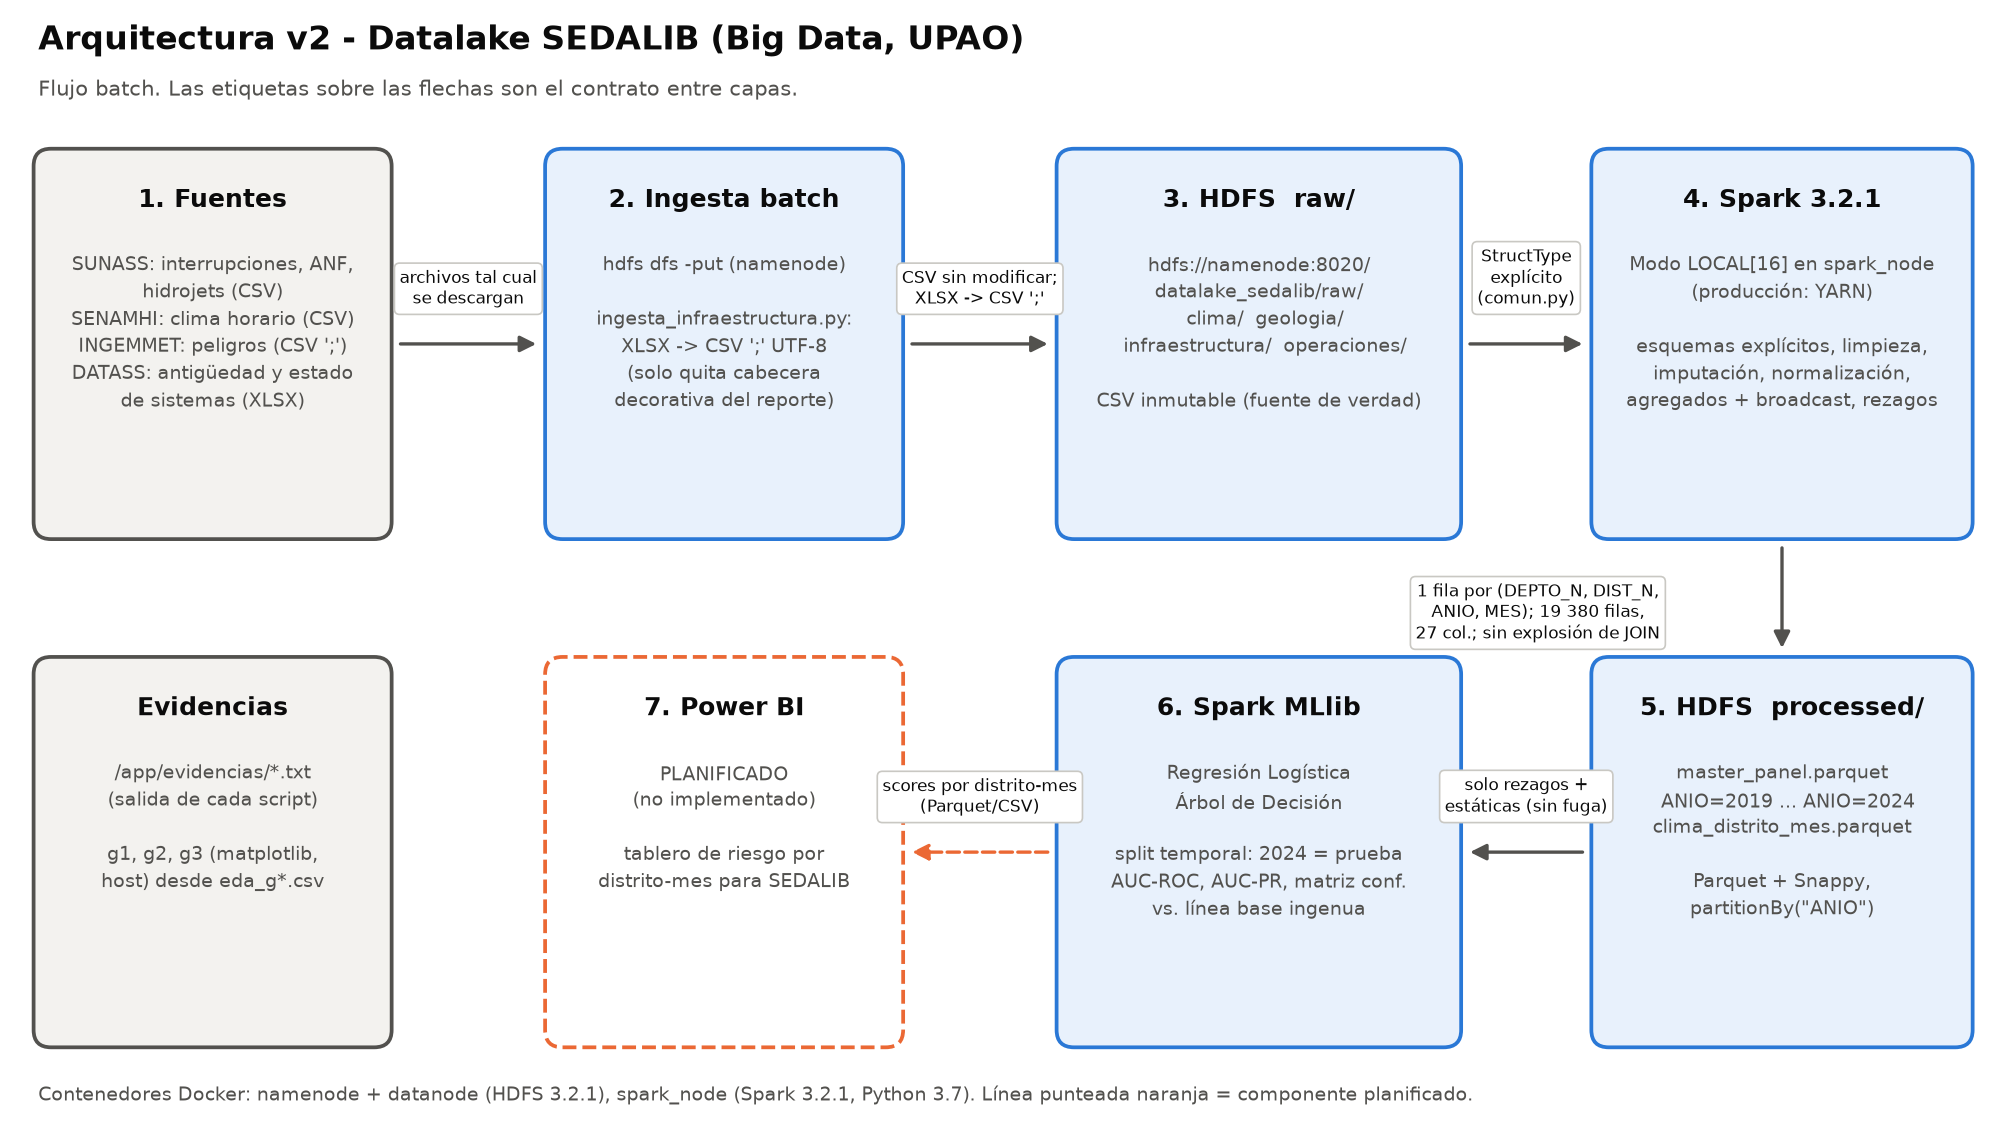
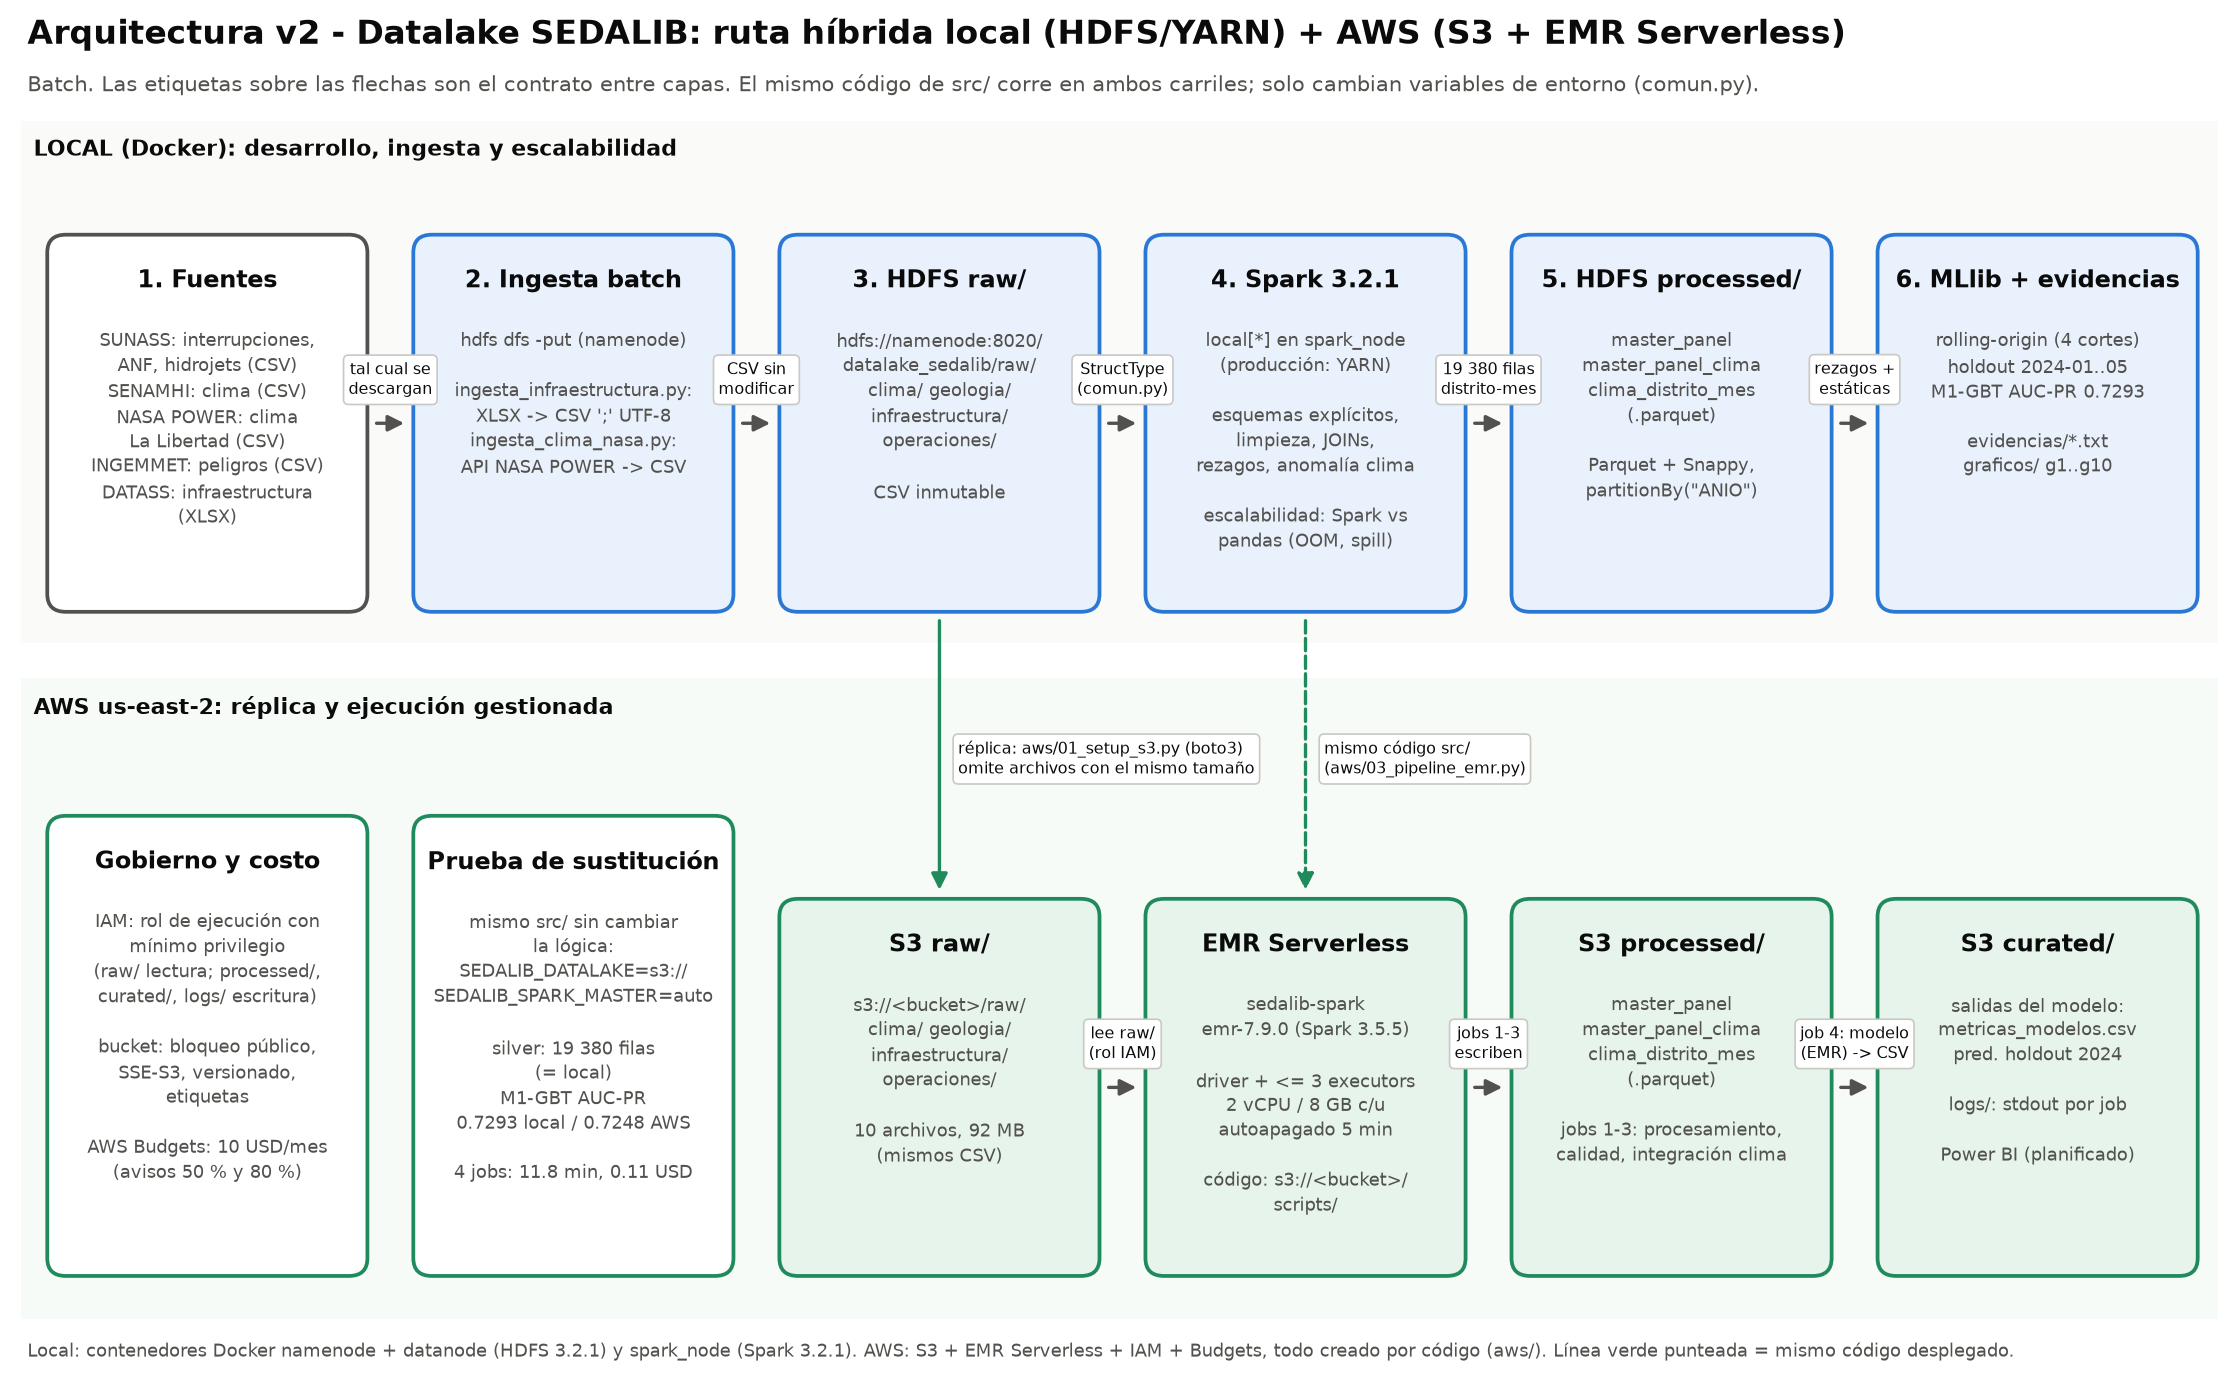
Arquitectura v2 con ruta híbrida local + AWS; detalle M1-GBT en evidencia AWS
Diagrama: carril local (ingesta, HDFS, Spark/YARN, escalabilidad) y carril AWS
(réplica S3 raw/processed/curated, EMR Serverless, salidas del modelo). Sin ID de cuenta.
aws_03_pipeline.txt: sección i con AUC-PR, precisión y recall de M1-GBT local vs AWS.

diff --git a/src/arquitectura_v2.py b/src/arquitectura_v2.py
@@ -1,68 +1,115 @@
-"""7. Diagrama de arquitectura v2 -> graficos/arquitectura_v2.png (python src/arquitectura_v2.py, en el host)."""
+"""7. Diagrama de arquitectura v2 (ruta hibrida local + AWS) -> graficos/arquitectura_v2.png.
+
+python src/arquitectura_v2.py   (en el host)
+Carril superior: desarrollo, ingesta y escalabilidad en local (Docker: HDFS + Spark; YARN en produccion).
+Carril inferior: replica en S3 (raw/processed/curated) y el MISMO codigo de src/ en EMR Serverless.
+No muestra el ID de la cuenta AWS (el bucket se escribe como s3://<bucket>/).
+"""
 import os
 
 import matplotlib
 
 matplotlib.use("Agg")
 import matplotlib.pyplot as plt  # noqa: E402
-from matplotlib.patches import FancyArrowPatch, FancyBboxPatch  # noqa: E402
+from matplotlib.patches import FancyArrowPatch, FancyBboxPatch, Rectangle  # noqa: E402
 
 TINTA, TINTA2 = "#0b0b0b", "#52514e"
 AZUL, AZUL_F = "#2a78d6", "#e8f1fc"
 GRIS_F, NARANJA = "#f3f2ef", "#eb6834"
+VERDE, VERDE_F = "#1f8a5b", "#e6f4ec"
+BASE = os.path.dirname(os.path.dirname(os.path.abspath(__file__)))
 
-fig, ax = plt.subplots(figsize=(17, 9.5))
-ax.set_xlim(0, 170)
-ax.set_ylim(0, 95)
+fig, ax = plt.subplots(figsize=(19, 11.5))
+ax.set_xlim(0, 178)
+ax.set_ylim(0, 112)
 ax.axis("off")
 
 
 def caja(x, y, w, h, titulo, cuerpo, fondo=AZUL_F, borde=AZUL, estilo="solid"):
     ax.add_patch(FancyBboxPatch((x, y), w, h, boxstyle="round,pad=0.4,rounding_size=1.5", fc=fondo, ec=borde,
                                 lw=1.8, ls=estilo))
-    ax.text(x + w / 2, y + h - 3, titulo, ha="center", va="top", fontsize=12, fontweight="bold", color=TINTA)
-    ax.text(x + w / 2, y + h - 8.5, cuerpo, ha="center", va="top", fontsize=9, color=TINTA2, linespacing=1.45)
+    ax.text(x + w / 2, y + h - 2.5, titulo, ha="center", va="top", fontsize=11.5, fontweight="bold", color=TINTA)
+    ax.text(x + w / 2, y + h - 7.5, cuerpo, ha="center", va="top", fontsize=8.6, color=TINTA2, linespacing=1.4)
 
 
-def flecha(x1, y1, x2, y2, contrato, dx=0, dy=2.2, estilo="solid", color=TINTA2):
-    ax.add_patch(FancyArrowPatch((x1, y1), (x2, y2), arrowstyle="-|>", mutation_scale=16, lw=1.6, color=color, ls=estilo))
-    ax.text((x1 + x2) / 2 + dx, (y1 + y2) / 2 + dy, contrato, ha="center", va="bottom", fontsize=8.2, color=TINTA,
-            bbox=dict(boxstyle="round,pad=0.3", fc="white", ec="#c9c8c3", lw=0.8))
+def flecha(x1, y1, x2, y2, contrato, dx=0, dy=2.0, estilo="solid", color=TINTA2, ha="center"):
+    ax.add_patch(FancyArrowPatch((x1, y1), (x2, y2), arrowstyle="-|>", mutation_scale=16, lw=1.6, color=color,
+                                 ls=estilo))
+    if contrato:
+        ax.text((x1 + x2) / 2 + dx, (y1 + y2) / 2 + dy, contrato, ha=ha, va="bottom", fontsize=7.9, color=TINTA,
+                bbox=dict(boxstyle="round,pad=0.3", fc="white", ec="#c9c8c3", lw=0.8))
 
 
-ax.text(2, 92, "Arquitectura v2 - Datalake SEDALIB (Big Data, UPAO)", fontsize=16, fontweight="bold", color=TINTA)
-ax.text(2, 88, "Flujo batch. Las etiquetas sobre las flechas son el contrato entre capas.", fontsize=10, color=TINTA2)
+def carril(y, h, etiqueta, color):
+    ax.add_patch(Rectangle((0.5, y), 177, h, fc=color, ec="none", alpha=0.35, zorder=0))
+    ax.text(1.5, y + h - 1.5, etiqueta, fontsize=10.5, fontweight="bold", color=TINTA, va="top")
 
-# Fila superior
-caja(2, 50, 30, 33, "1. Fuentes", "SUNASS: interrupciones, ANF,\nhidrojets (CSV)\nSENAMHI: clima horario (CSV)\n"
-     "INGEMMET: peligros (CSV ';')\nDATASS: antigüedad y estado\nde sistemas (XLSX)", fondo=GRIS_F, borde=TINTA2)
-caja(46, 50, 30, 33, "2. Ingesta batch", "hdfs dfs -put (namenode)\n\ningesta_infraestructura.py:\nXLSX -> CSV ';' UTF-8\n"
-     "(solo quita cabecera\ndecorativa del reporte)")
-caja(90, 50, 34, 33, "3. HDFS  raw/", "hdfs://namenode:8020/\ndatalake_sedalib/raw/\n  clima/  geologia/\n"
-     "  infraestructura/  operaciones/\n\nCSV inmutable (fuente de verdad)")
-caja(136, 50, 32, 33, "4. Spark 3.2.1", "Modo LOCAL[16] en spark_node\n(producción: YARN)\n\nesquemas explícitos, limpieza,\n"
-     "imputación, normalización,\nagregados + broadcast, rezagos")
 
-# Fila inferior
-caja(136, 6, 32, 33, "5. HDFS  processed/", "master_panel.parquet\n  ANIO=2019 ... ANIO=2024\n"
-     "clima_distrito_mes.parquet\n\nParquet + Snappy,\npartitionBy(\"ANIO\")")
-caja(90, 6, 34, 33, "6. Spark MLlib", "Regresión Logística\nÁrbol de Decisión\n\nsplit temporal: 2024 = prueba\n"
-     "AUC-ROC, AUC-PR, matriz conf.\nvs. línea base ingenua")
-caja(46, 6, 30, 33, "7. Power BI", "PLANIFICADO\n(no implementado)\n\ntablero de riesgo por\ndistrito-mes para SEDALIB",
-     fondo="white", borde=NARANJA, estilo="--")
-caja(2, 6, 30, 33, "Evidencias", "/app/evidencias/*.txt\n(salida de cada script)\n\ng1, g2, g3 (matplotlib,\n"
-     "host) desde eda_g*.csv", fondo=GRIS_F, borde=TINTA2)
+ax.text(1, 109.5, "Arquitectura v2 - Datalake SEDALIB: ruta híbrida local (HDFS/YARN) + AWS (S3 + EMR Serverless)",
+        fontsize=16, fontweight="bold", color=TINTA)
+ax.text(1, 105.5, "Batch. Las etiquetas sobre las flechas son el contrato entre capas. El mismo código de src/ corre en "
+        "ambos carriles; solo cambian variables de entorno (comun.py).", fontsize=10, color=TINTA2)
 
-flecha(32.8, 66.5, 45.2, 66.5, "archivos tal cual\nse descargan", dy=3)
-flecha(76.8, 66.5, 89.2, 66.5, "CSV sin modificar;\nXLSX -> CSV ';'", dy=3)
-flecha(124.8, 66.5, 135.2, 66.5, "StructType\nexplícito\n(comun.py)", dy=3)
-flecha(152, 49.2, 152, 39.8, "1 fila por (DEPTO_N, DIST_N,\nANIO, MES); 19 380 filas,\n27 col.; sin explosión de JOIN",
-       dx=-21, dy=-4)
-flecha(135.2, 22.5, 124.8, 22.5, "solo rezagos +\nestáticas (sin fuga)", dy=3)
-flecha(89.2, 22.5, 76.8, 22.5, "scores por distrito-mes\n(Parquet/CSV)", dy=3, estilo="--", color=NARANJA)
+W, H = 25, 31
+X = [3, 32.5, 62, 91.5, 121, 150.5]
 
-ax.text(2, 1, "Contenedores Docker: namenode + datanode (HDFS 3.2.1), spark_node (Spark 3.2.1, Python 3.7). "
-         "Línea punteada naranja = componente planificado.", fontsize=9, color=TINTA2)
-fig.savefig(os.path.join(os.path.dirname(os.path.dirname(os.path.abspath(__file__))), "graficos", "arquitectura_v2.png"),
-            dpi=150, bbox_inches="tight")
+# ------------------------------------------------------------------ carril local
+carril(59, 44, "LOCAL (Docker): desarrollo, ingesta y escalabilidad", GRIS_F)
+YL = 62
+caja(X[0], YL, W, H, "1. Fuentes", "SUNASS: interrupciones,\nANF, hidrojets (CSV)\nSENAMHI: clima (CSV)\n"
+     "NASA POWER: clima\nLa Libertad (CSV)\nINGEMMET: peligros (CSV)\nDATASS: infraestructura\n(XLSX)",
+     fondo="white", borde=TINTA2)
+caja(X[1], YL, W, H, "2. Ingesta batch", "hdfs dfs -put (namenode)\n\ningesta_infraestructura.py:\nXLSX -> CSV ';' UTF-8\n"
+     "ingesta_clima_nasa.py:\nAPI NASA POWER -> CSV")
+caja(X[2], YL, W, H, "3. HDFS raw/", "hdfs://namenode:8020/\ndatalake_sedalib/raw/\nclima/ geologia/\n"
+     "infraestructura/\noperaciones/\n\nCSV inmutable")
+caja(X[3], YL, W, H, "4. Spark 3.2.1", "local[*] en spark_node\n(producción: YARN)\n\nesquemas explícitos,\nlimpieza, JOINs,\n"
+     "rezagos, anomalía clima\n\nescalabilidad: Spark vs\npandas (OOM, spill)")
+caja(X[4], YL, W, H, "5. HDFS processed/", "master_panel\nmaster_panel_clima\nclima_distrito_mes\n(.parquet)\n\n"
+     "Parquet + Snappy,\npartitionBy(\"ANIO\")")
+caja(X[5], YL, W, H, "6. MLlib + evidencias", "rolling-origin (4 cortes)\nholdout 2024-01..05\n"
+     "M1-GBT AUC-PR 0.7293\n\nevidencias/*.txt\ngraficos/ g1..g10")
+
+yl = YL + H / 2
+flecha(X[0] + W + 0.8, yl, X[1] - 0.8, yl, "tal cual se\ndescargan")
+flecha(X[1] + W + 0.8, yl, X[2] - 0.8, yl, "CSV sin\nmodificar")
+flecha(X[2] + W + 0.8, yl, X[3] - 0.8, yl, "StructType\n(comun.py)")
+flecha(X[3] + W + 0.8, yl, X[4] - 0.8, yl, "19 380 filas\ndistrito-mes")
+flecha(X[4] + W + 0.8, yl, X[5] - 0.8, yl, "rezagos +\nestáticas")
+
+# ------------------------------------------------------------------ carril AWS
+carril(2, 54, "AWS us-east-2: réplica y ejecución gestionada", VERDE_F)
+YA = 6
+caja(X[0], YA, W, 38, "Gobierno y costo", "IAM: rol de ejecución con\nmínimo privilegio\n(raw/ lectura; processed/,\n"
+     "curated/, logs/ escritura)\n\nbucket: bloqueo público,\nSSE-S3, versionado,\netiquetas\n\nAWS Budgets: 10 USD/mes\n"
+     "(avisos 50 % y 80 %)", fondo="white", borde=VERDE)
+caja(X[1], YA, W, 38, "Prueba de sustitución", "mismo src/ sin cambiar\nla lógica:\nSEDALIB_DATALAKE=s3://\n"
+     "SEDALIB_SPARK_MASTER=auto\n\nsilver: 19 380 filas\n(= local)\nM1-GBT AUC-PR\n0.7293 local / 0.7248 AWS\n\n"
+     "4 jobs: 11.8 min, 0.11 USD", fondo="white", borde=VERDE)
+caja(X[2], YA, W, H, "S3 raw/", "s3://<bucket>/raw/\nclima/ geologia/\ninfraestructura/\noperaciones/\n\n"
+     "10 archivos, 92 MB\n(mismos CSV)", fondo=VERDE_F, borde=VERDE)
+caja(X[3], YA, W, H, "EMR Serverless", "sedalib-spark\nemr-7.9.0 (Spark 3.5.5)\n\ndriver + <= 3 executors\n"
+     "2 vCPU / 8 GB c/u\nautoapagado 5 min\n\ncódigo: s3://<bucket>/\nscripts/", fondo=VERDE_F, borde=VERDE)
+caja(X[4], YA, W, H, "S3 processed/", "master_panel\nmaster_panel_clima\nclima_distrito_mes\n(.parquet)\n\n"
+     "jobs 1-3: procesamiento,\ncalidad, integración clima", fondo=VERDE_F, borde=VERDE)
+caja(X[5], YA, W, H, "S3 curated/", "salidas del modelo:\nmetricas_modelos.csv\npred. holdout 2024\n\n"
+     "logs/: stdout por job\n\nPower BI (planificado)", fondo=VERDE_F, borde=VERDE)
+
+ya = YA + H / 2
+flecha(X[2] + W + 0.8, ya, X[3] - 0.8, ya, "lee raw/\n(rol IAM)")
+flecha(X[3] + W + 0.8, ya, X[4] - 0.8, ya, "jobs 1-3\nescriben")
+flecha(X[4] + W + 0.8, ya, X[5] - 0.8, ya, "job 4: modelo\n(EMR) -> CSV")
+
+# replica local -> S3 (de los archivos de raw/ locales)
+flecha(X[2] + W / 2, YL - 0.8, X[2] + W / 2, YA + H + 0.8,
+       "réplica: aws/01_setup_s3.py (boto3)\nomite archivos con el mismo tamaño", dx=1.5, dy=-2, ha="left",
+       color=VERDE)
+# mismo codigo
+flecha(X[3] + W / 2, YL - 0.8, X[3] + W / 2, YA + H + 0.8,
+       "mismo código src/\n(aws/03_pipeline_emr.py)", dx=1.5, dy=-2, ha="left", color=VERDE, estilo="--")
+
+ax.text(1, -1.2, "Local: contenedores Docker namenode + datanode (HDFS 3.2.1) y spark_node (Spark 3.2.1). "
+        "AWS: S3 + EMR Serverless + IAM + Budgets, todo creado por código (aws/). "
+        "Línea verde punteada = mismo código desplegado.", fontsize=8.8, color=TINTA2)
+fig.savefig(os.path.join(BASE, "graficos", "arquitectura_v2.png"), dpi=150, bbox_inches="tight")
 print("graficos/arquitectura_v2.png generado")
